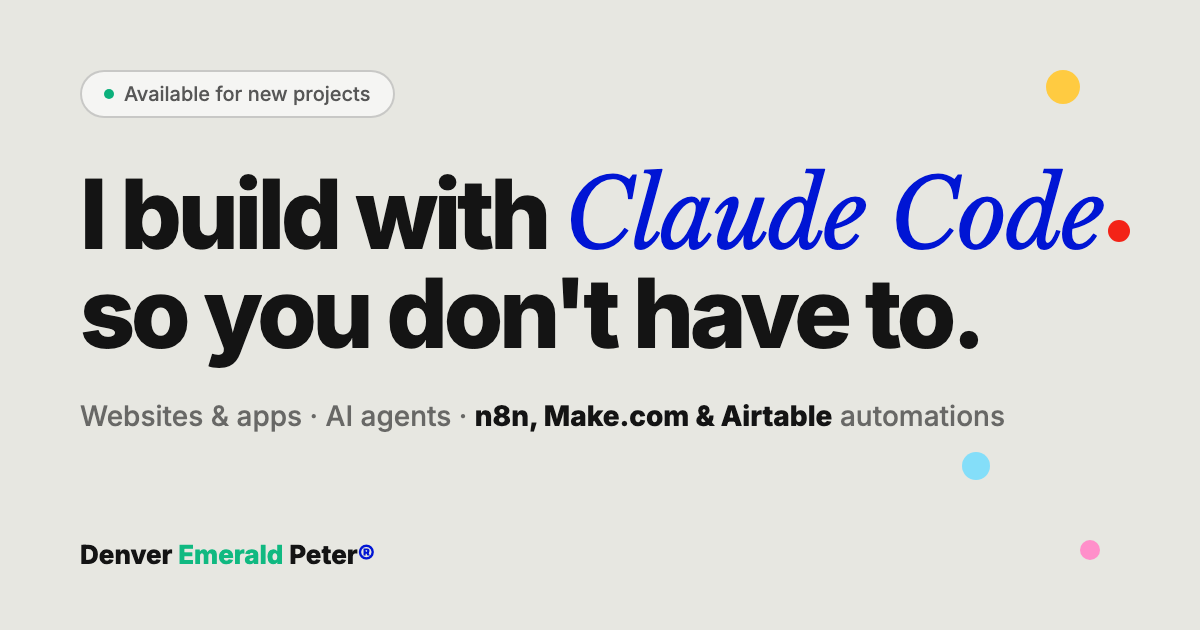
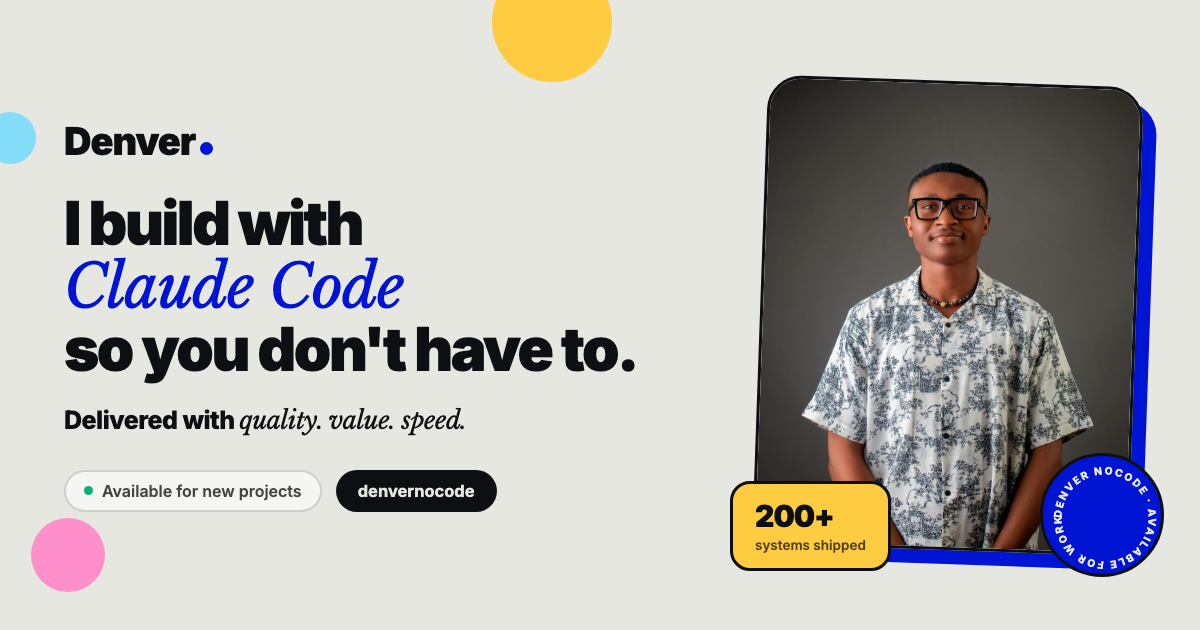
New social share card, and fix the meta tags that broke it
Rebuilt og-image.png around the portrait, in the site's editorial style.
The og:image was a relative path, which WhatsApp, LinkedIn and X do not
resolve, so shared links rendered with no preview image. Now absolute,
with dimensions, alt text, og:url and the twitter:* pair.

diff --git a/artifacts/portfolio/index.html b/artifacts/portfolio/index.html
@@ -7,9 +7,17 @@
     <meta name="description" content="Apps, websites, automations and AI agent systems shipped with Claude Code, plus n8n, Make.com and Airtable. 200+ systems delivered for 50+ clients worldwide." />
     <meta property="og:title" content="Denver Emerald Peter — Claude Code, AI Agents & Automation" />
     <meta property="og:description" content="I build with Claude Code so you don't have to. Websites, apps, AI agents, and automation systems." />
-    <meta property="og:image" content="/og-image.png" />
+    <!-- Absolute URL: WhatsApp, LinkedIn and X will not resolve a relative og:image. -->
+    <meta property="og:image" content="https://project-ow2fz.vercel.app/og-image.png" />
+    <meta property="og:image:width" content="1200" />
+    <meta property="og:image:height" content="630" />
+    <meta property="og:image:alt" content="Denver Emerald Peter, builder of apps, websites and automation with Claude Code." />
+    <meta property="og:url" content="https://project-ow2fz.vercel.app/" />
     <meta property="og:type" content="website" />
     <meta name="twitter:card" content="summary_large_image" />
+    <meta name="twitter:title" content="Denver Emerald Peter — Claude Code, AI Agents & Automation" />
+    <meta name="twitter:description" content="I build with Claude Code so you don't have to. Websites, apps, AI agents, and automation systems." />
+    <meta name="twitter:image" content="https://project-ow2fz.vercel.app/og-image.png" />
     <link rel="icon" type="image/svg+xml" href="/favicon.svg" />
     <link rel="preconnect" href="https://fonts.googleapis.com">
     <link rel="preconnect" href="https://fonts.gstatic.com" crossorigin>
